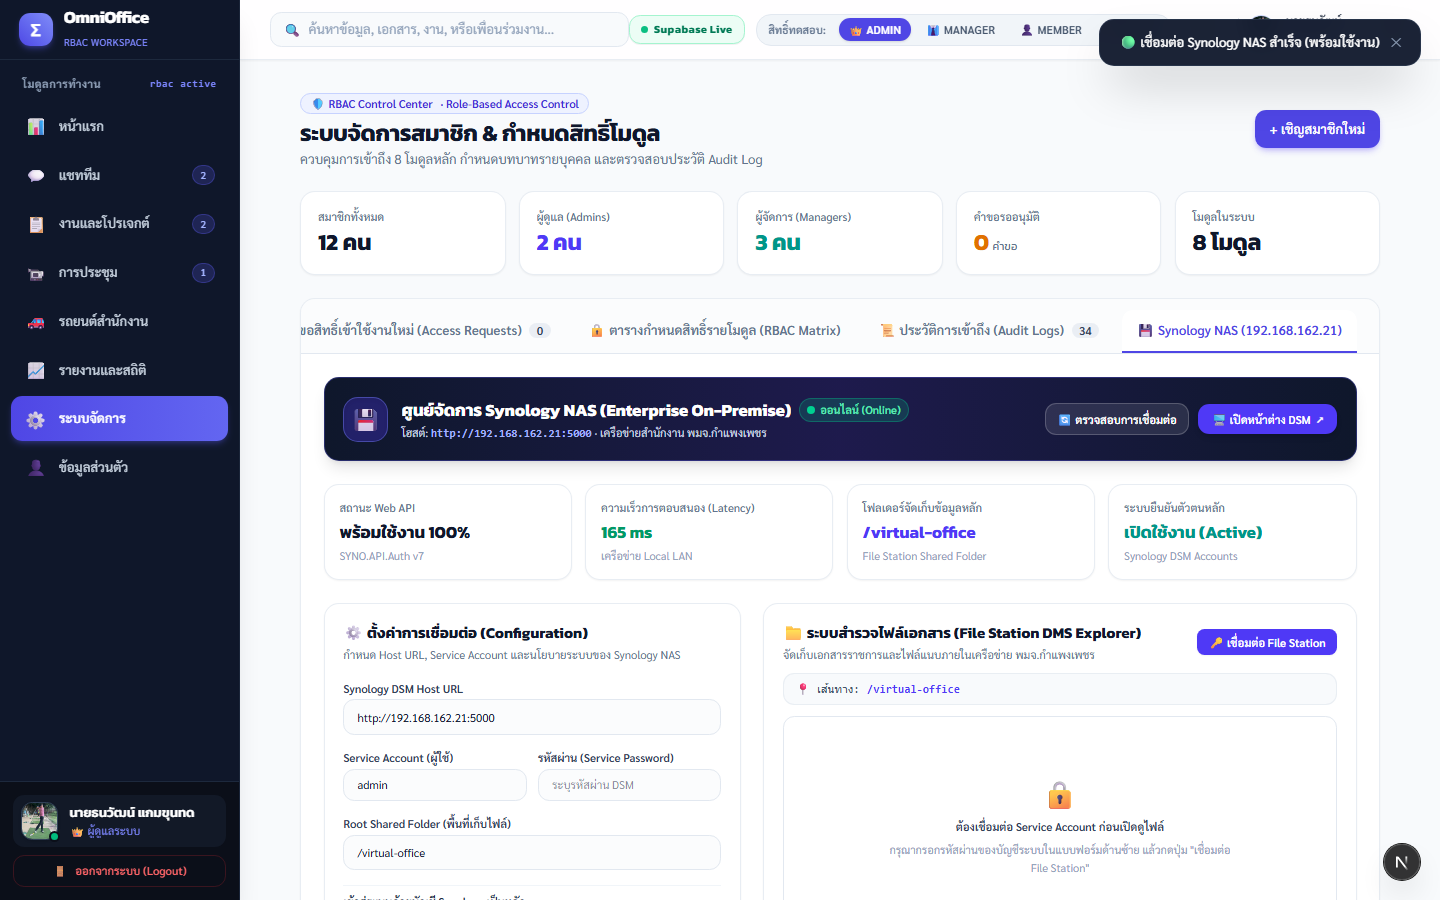
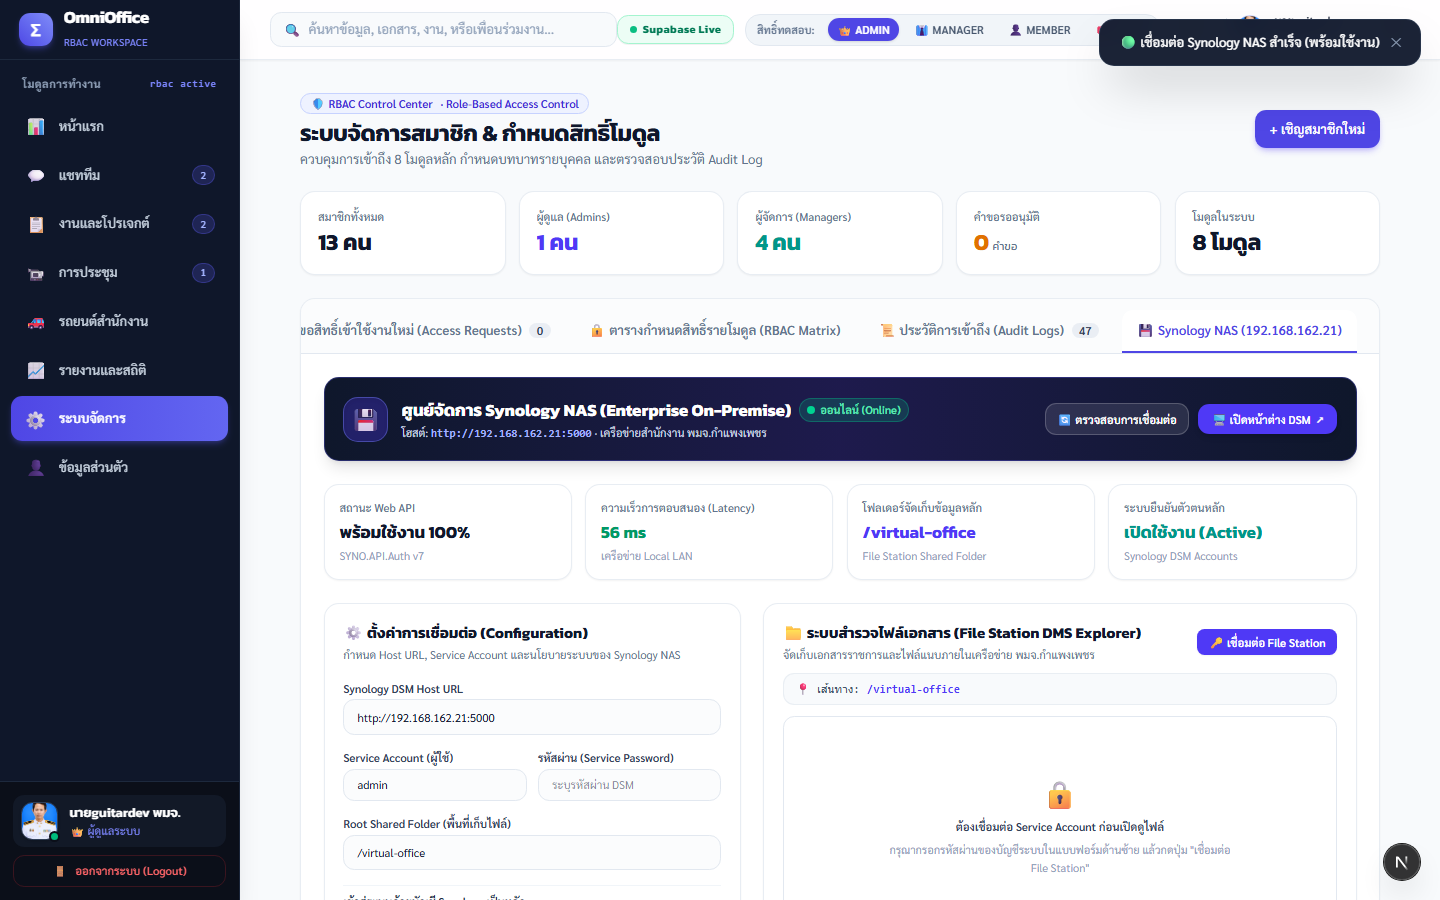
fix(nas): support Thai unicode usernames for clean unique user IDs and profiles

diff --git a/app/api/nas/auth/route.ts b/app/api/nas/auth/route.ts
@@ -31,25 +31,70 @@ export async function POST(req: NextRequest) {
     }
 
     // 2. Synthesize or Map Officer Profile for Virtual Office
-    const isNasAdmin = authResult.is_admin || username.toLowerCase() === "admin" || username.toLowerCase() === "guitardev";
-    const displayName = username.toLowerCase() === "admin"
-      ? "ผู้ดูแลระบบ (Synology DSM Admin)"
-      : `เจ้าหน้าที่ (${username})`;
+    const trimmedUser = username.trim();
+    const isNasAdmin =
+      authResult.is_admin ||
+      trimmedUser.toLowerCase() === "admin" ||
+      trimmedUser.toLowerCase() === "guitardev";
+
+    // Clean unique ID that properly supports Thai (\u0E00-\u0E7F) and English without turning into "syno_______"
+    const cleanSlug = trimmedUser
+      .replace(/[^a-zA-Z0-9\u0E00-\u0E7F_-]/g, "_")
+      .replace(/_+/g, "_")
+      .replace(/^_|_$/g, "");
+
+    let hash = 5381;
+    for (let i = 0; i < trimmedUser.length; i++) {
+      hash = (hash * 33) ^ trimmedUser.charCodeAt(i);
+    }
+    const hashStr = (hash >>> 0).toString(36).slice(0, 6);
+
+    const userId =
+      trimmedUser.toLowerCase() === "admin"
+        ? "syno_admin"
+        : cleanSlug
+        ? `syno_${cleanSlug}`
+        : `syno_user_${hashStr}`;
+
+    const isThai = /[\u0E00-\u0E7F]/.test(trimmedUser);
+    const nameParts = trimmedUser.split(/\s+/);
+    const firstName =
+      trimmedUser.toLowerCase() === "admin"
+        ? "ผู้ดูแลระบบ"
+        : nameParts[0] || trimmedUser;
+    const lastName =
+      trimmedUser.toLowerCase() === "admin"
+        ? "Synology"
+        : nameParts.slice(1).join(" ") || "พมจ.กำแพงเพชร";
+
+    const displayName =
+      trimmedUser.toLowerCase() === "admin"
+        ? "ผู้ดูแลระบบ (Synology DSM Admin)"
+        : isThai
+        ? trimmedUser
+        : `เจ้าหน้าที่ (${trimmedUser})`;
+
+    // Generate valid email address (standard email requires ASCII local-part)
+    const emailPrefix =
+      !isThai && cleanSlug ? cleanSlug.toLowerCase() : `syno_${hashStr}`;
+    const email = `${emailPrefix}@kpp-m-society.go.th`;
+    const lineId = !isThai ? `@syno_${trimmedUser.toLowerCase()}` : `@syno_${hashStr}`;
+    const avatarText = trimmedUser.slice(0, 2);
 
     const member: Member = {
-      id: `syno_${username.toLowerCase().replace(/[^a-z0-9]/g, "_")}`,
+      id: userId,
       prefix: "นาย",
-      firstName: username.toLowerCase() === "admin" ? "ผู้ดูแลระบบ" : username,
-      lastName: username.toLowerCase() === "admin" ? "Synology" : "พมจ.",
+      firstName,
+      lastName,
       name: displayName,
       personnelType: "ข้าราชการ",
       role: isNasAdmin ? "admin" : "member",
       position: isNasAdmin ? "ผู้ดูแลระบบเครือข่ายและระบบสารบรรณ NAS" : "เจ้าหน้าที่ปฏิบัติการประจำสำนักงาน",
       division: "ฝ่ายบริหารทั่วไป (กลุ่มงานสารบรรณและเทคโนโลยีสารสนเทศ)",
       department: "สำนักงานพัฒนาสังคมและความมั่นคงของมนุษย์จังหวัดกำแพงเพชร",
-      email: `${username.toLowerCase()}@kpp-m-society.go.th`,
+      email,
       phone: "055-705031 ต่อ 102",
-      lineId: `@syno_${username.toLowerCase()}`,
+      lineId,
       status: "active",
       joinedDate: new Date().toLocaleDateString("th-TH", {
         day: "numeric",
@@ -59,7 +104,7 @@ export async function POST(req: NextRequest) {
       avatarUrl: isNasAdmin
         ? "https://kamphaengphet.m-society.go.th/wp-content/uploads/2024/10/S__2457668.jpg"
         : undefined,
-      avatarText: username.slice(0, 2).toUpperCase(),
+      avatarText,
     };
 
     return NextResponse.json({

diff --git a/app/page.tsx b/app/page.tsx
@@ -526,6 +526,13 @@ export default function OmniOfficeApp() {
       new Date().toLocaleTimeString("th-TH", { hour: "2-digit", minute: "2-digit" }) + " น.";
     setLoginTime(timeStr);
 
+    // Ensure member is in members list and persisted
+    setMembers((prev) => {
+      const exists = prev.some((m) => m.id === member.id);
+      return exists ? prev : [member, ...prev];
+    });
+    saveMember(member).catch(() => {});
+
     if (rememberMe && typeof window !== "undefined") {
       try {
         localStorage.setItem(
